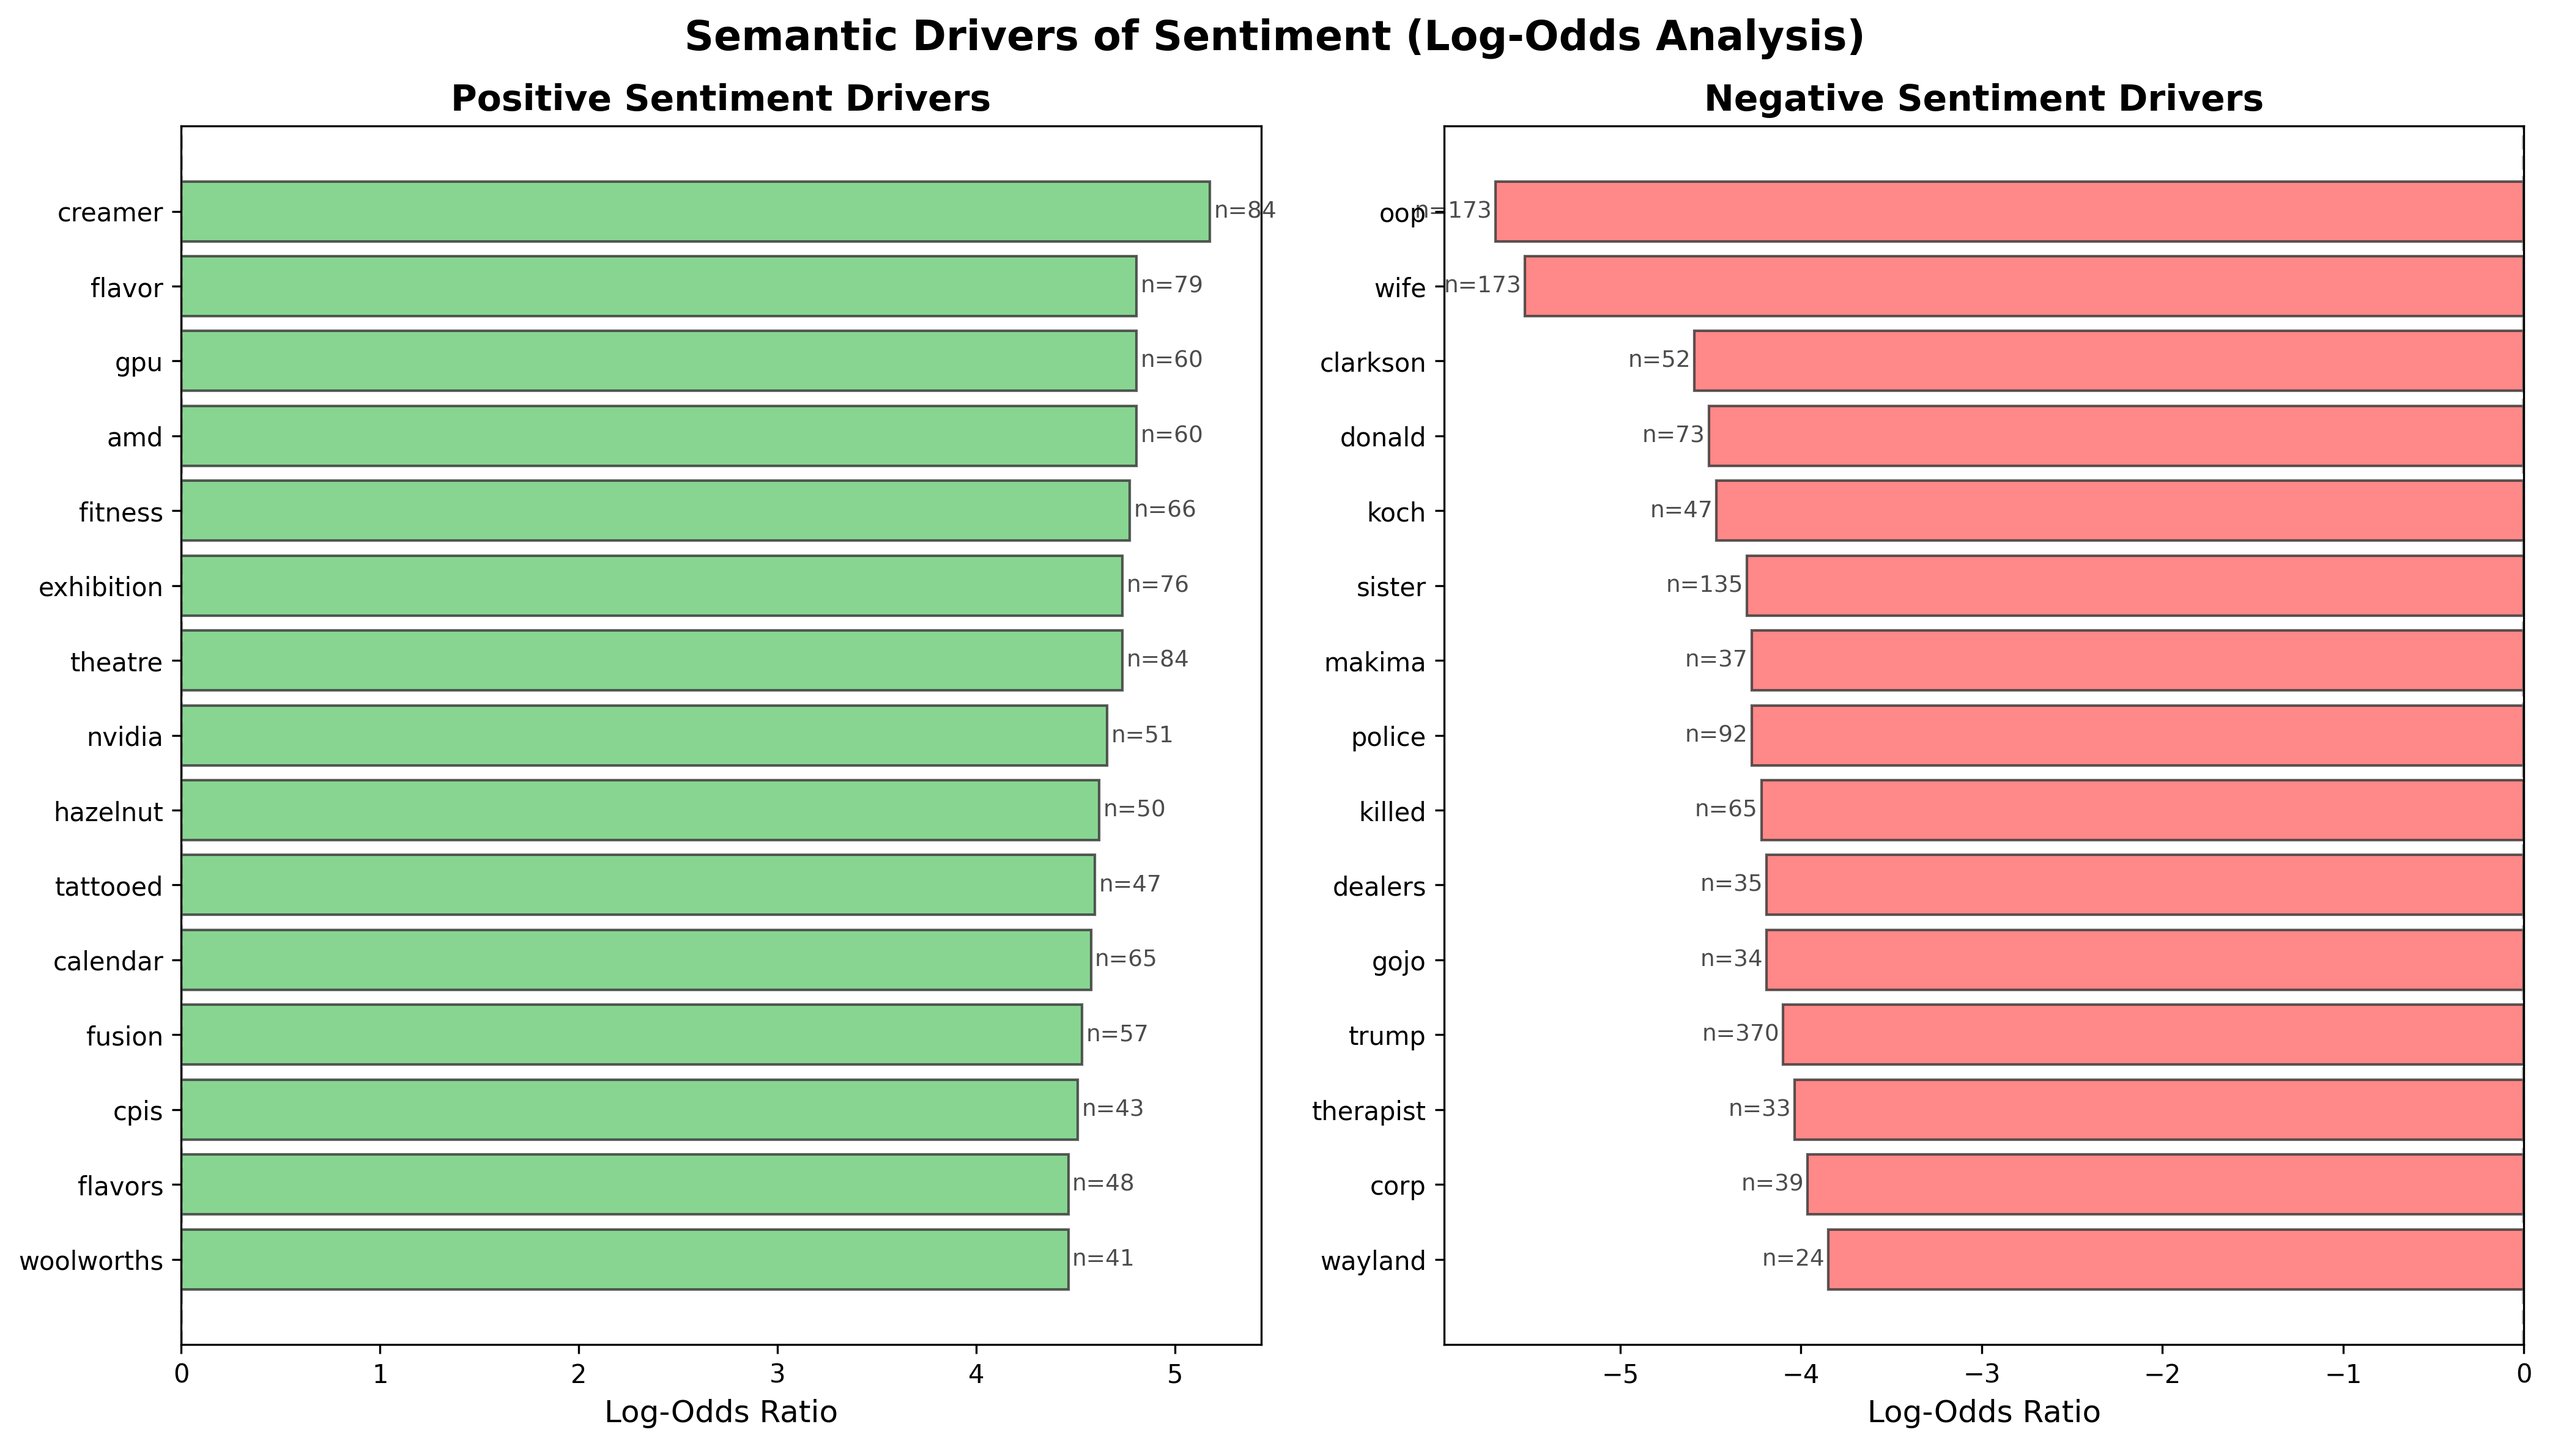
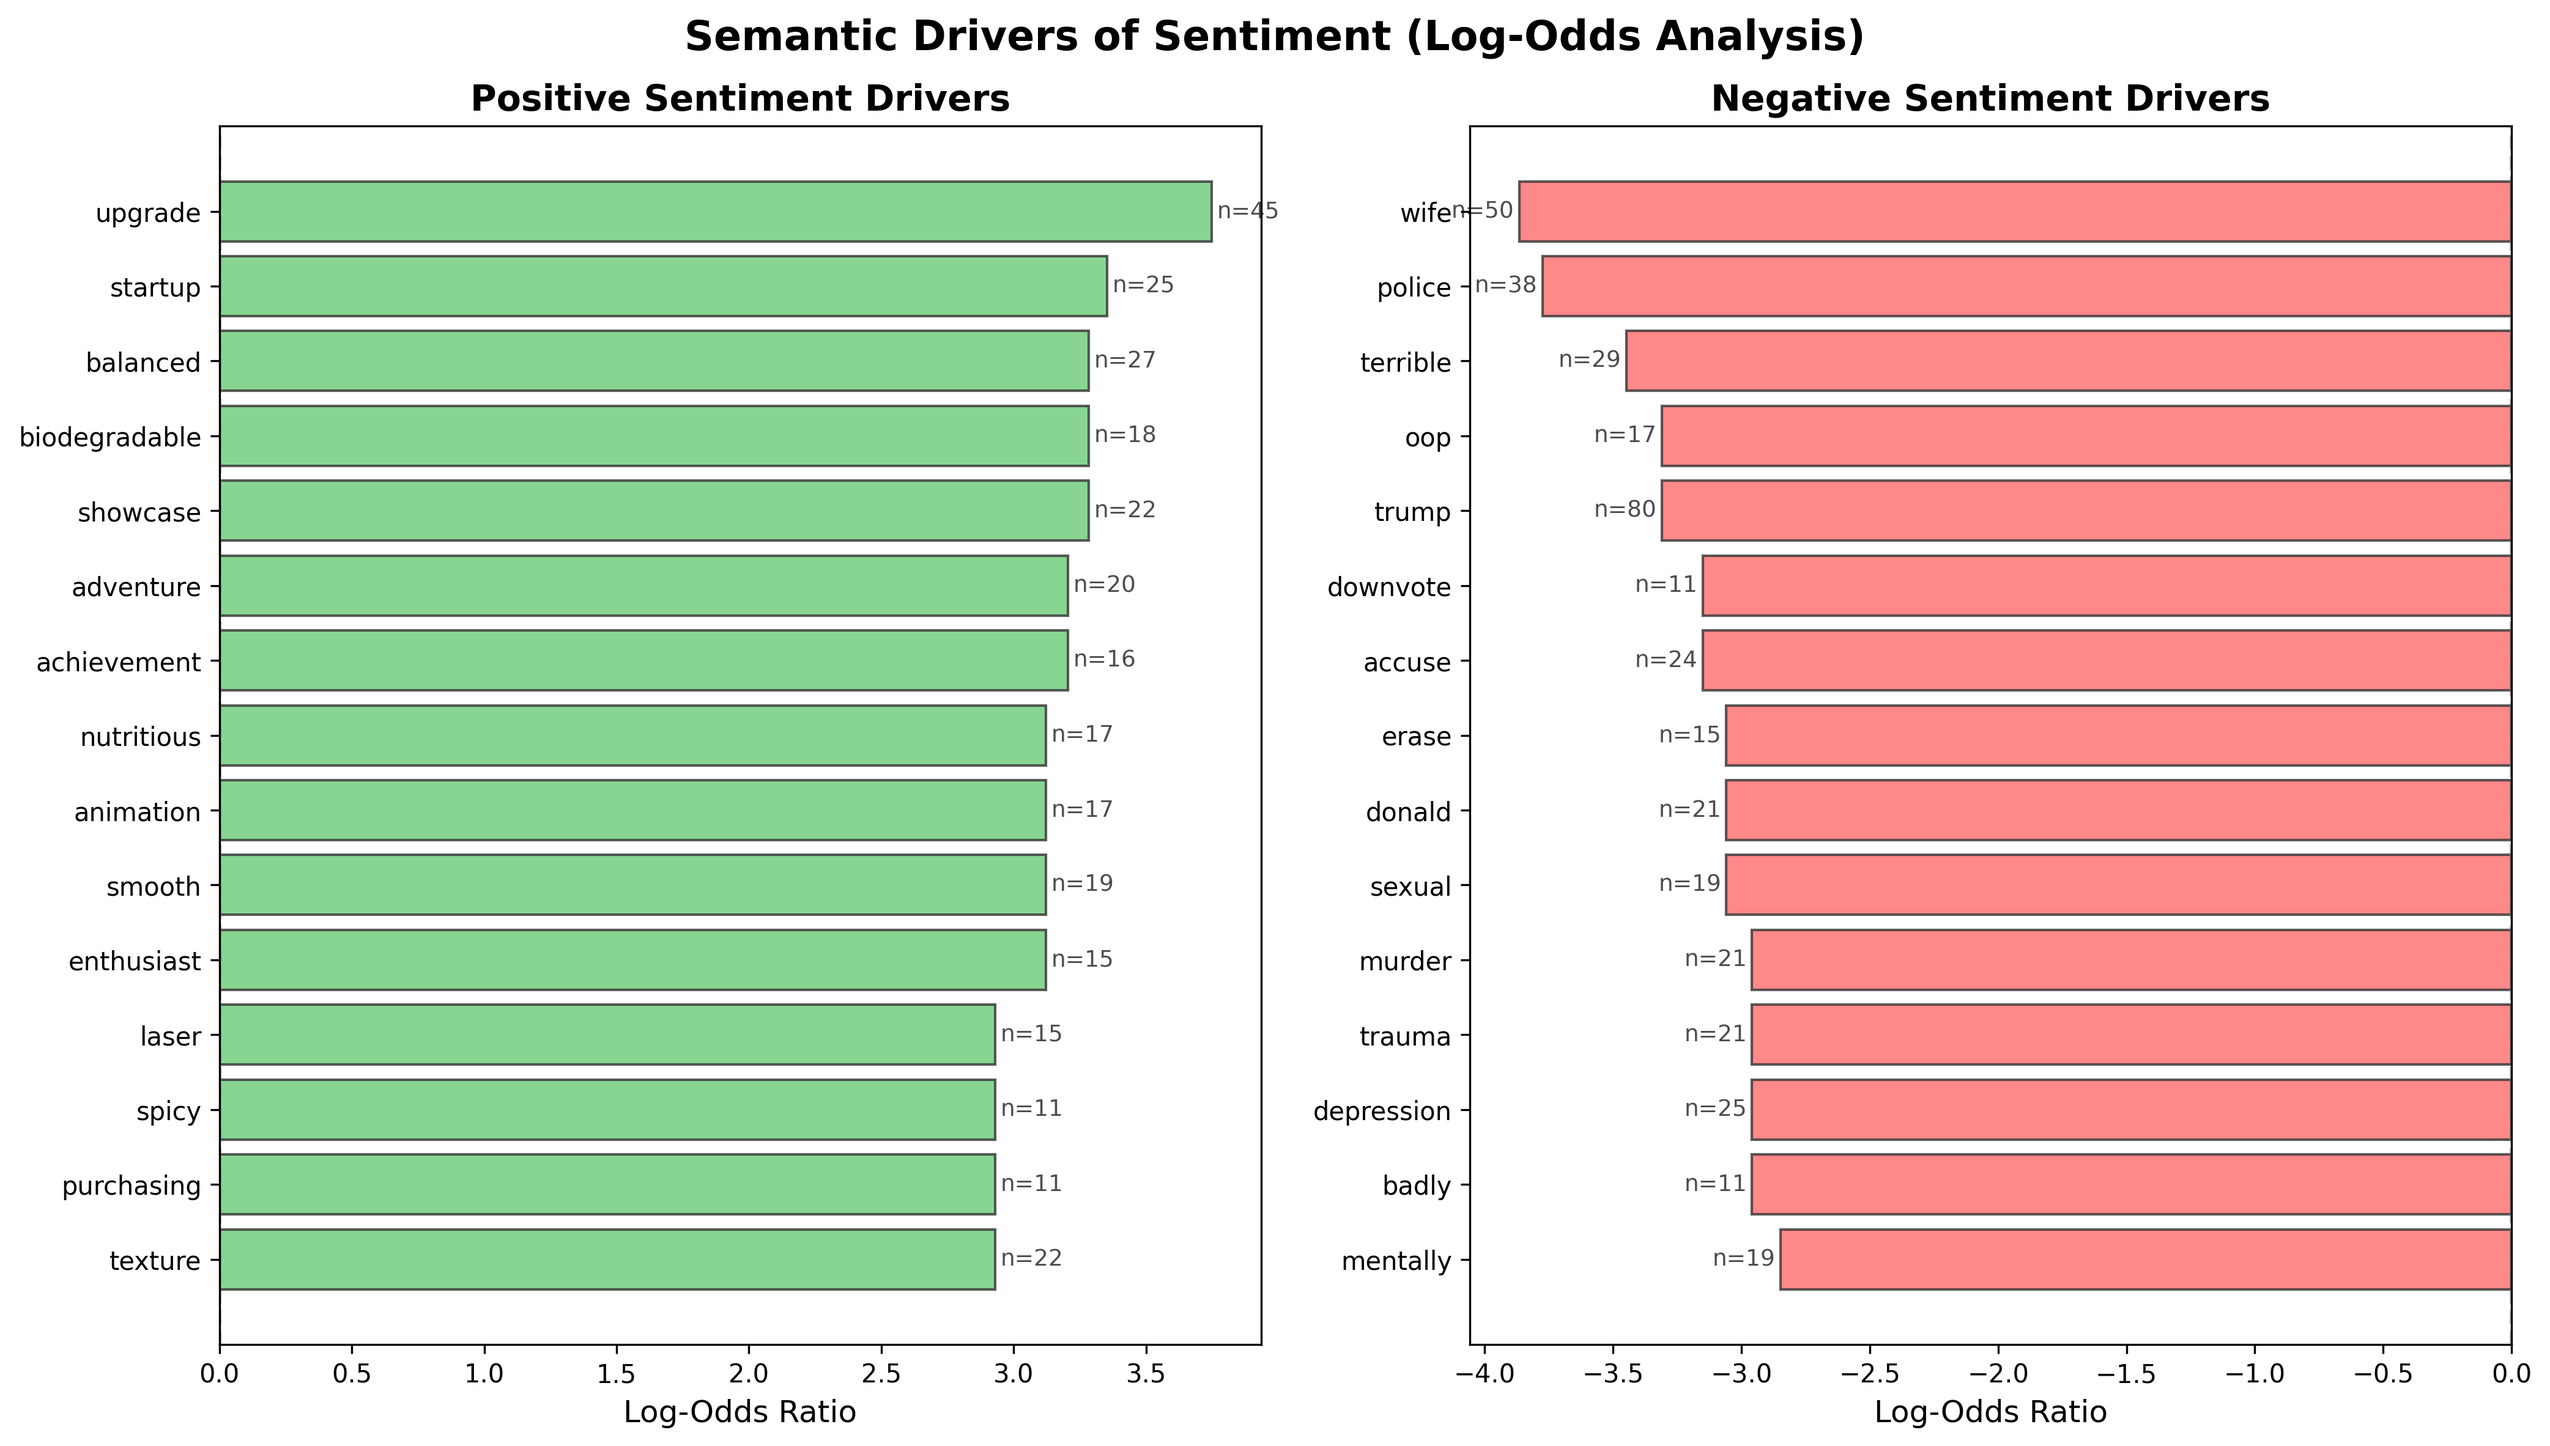
changes

diff --git a/analysis.py b/analysis.py
@@ -556,19 +556,36 @@ class OddsRatioAnalysis:
         self.df = df.copy()
         self.text_column = text_column
         self.sentiment_column = sentiment_column
+        self.stopwords = {
+            'the', 'and', 'for', 'that', 'with', 'this', 'from', 'have', 'were',
+            'their', 'they', 'them', 'about', 'would', 'could', 'should', 'there',
+            'which', 'when', 'where', 'what', 'your', 'just', 'into', 'over',
+            'than', 'also', 'http', 'https', 'www', 'com', 'amp', 'reddit',
+            'post', 'comment', 'people', 'thing', 'things', 'make', 'made',
+            'know', 'like', 'really', 'still', 'much', 'many', 'some', 'more',
+            'most', 'other', 'because', 'going', 'want', 'need', 'take', 'come',
+            'said', 'dont', 'doesnt', 'didnt', 'cant', 'wont', 'ive', 'youre',
+            'im', 'get', 'got', 'one', 'two', 'first', 'last', 'new', 'use',
+            'used', 'using', 'well', 'back', 'look', 'long', 'even', 'say'
+        }
+
+    def _tokenize_text(self, text: str) -> List[str]:
+        """Tokenize and filter words for semantic odds analysis."""
+        text = str(text).lower()
+        tokens = re.findall(r'\b[a-z]{3,}\b', text)
+        tokens = [t for t in tokens if t not in self.stopwords]
+        return tokens
     
     def compute_word_frequencies(self) -> Tuple[Counter, Counter, Counter]:
-        """Compute word frequencies by sentiment class."""
-        from collections import Counter
-        import re
+        """Compute per-document word frequencies by sentiment class."""
         
         positive_words = Counter()
         negative_words = Counter()
         all_words = Counter()
         
         for _, row in self.df.iterrows():
-            text = str(row[self.text_column]).lower()
-            words = re.findall(r'\b[a-z]{3,}\b', text)
+            words = self._tokenize_text(row[self.text_column])
+            words = list(set(words))
             sentiment = row[self.sentiment_column]
             
             all_words.update(words)
@@ -581,7 +598,8 @@ class OddsRatioAnalysis:
         return positive_words, negative_words, all_words
     
     def compute_log_odds_ratio(self, min_count: int = 10,
-                               prior_count: float = 0.5) -> pd.DataFrame:
+                               prior_count: float = 0.5,
+                               max_doc_frequency: float = 0.8) -> pd.DataFrame:
         """
         Compute log-odds ratio with informative Dirichlet prior.
         
@@ -595,6 +613,8 @@ class OddsRatioAnalysis:
             DataFrame with words ranked by log-odds
         """
         positive_words, negative_words, all_words = self.compute_word_frequencies()
+
+        total_docs = max(1, len(self.df))
         
         # Total counts
         total_positive = sum(positive_words.values())
@@ -604,6 +624,8 @@ class OddsRatioAnalysis:
         
         for word, total_count in all_words.items():
             if total_count < min_count:
+                continue
+            if (total_count / total_docs) > max_doc_frequency:
                 continue
             
             # Counts with prior smoothing
@@ -1320,8 +1342,13 @@ def run_full_analysis(df: pd.DataFrame,
     # ===== Step 4: Odds Ratio Analysis =====
     print(f"\n📐 Step 4: Odds Ratio / Log-Odds Analysis")
     print("-" * 40)
-    
-    odds_analyzer = OddsRatioAnalysis(df, text_column=text_column, sentiment_column='sentiment')
+
+    odds_text_column = text_column
+    if 'topic_text' in df.columns and df['topic_text'].astype(str).str.len().gt(0).any():
+        odds_text_column = 'topic_text'
+    print(f"   Using text column for log-odds: {odds_text_column}")
+
+    odds_analyzer = OddsRatioAnalysis(df, text_column=odds_text_column, sentiment_column='sentiment')
     
     # Sentiment probabilities
     sent_probs = odds_analyzer.compute_sentiment_probabilities()
@@ -1333,7 +1360,7 @@ def run_full_analysis(df: pd.DataFrame,
     print(f"      Net Sentiment: {sent_probs['net_sentiment']:+.3f}")
     
     # Log-odds analysis
-    log_odds_df = odds_analyzer.compute_log_odds_ratio(min_count=10)
+    log_odds_df = odds_analyzer.compute_log_odds_ratio(min_count=10, max_doc_frequency=0.8)
     if len(log_odds_df) > 0:
         drivers = odds_analyzer.get_top_drivers(log_odds_df, n=10)
         

diff --git a/model.py b/model.py
@@ -58,7 +58,7 @@ def step_1_scrape_reddit():
         target = 3000
         seen_ids = set()
         data = []
-        cutoff_date = datetime(2016, 1, 1)
+        cutoff_date = datetime(2018, 1, 1)
         
         print(f"Searching Reddit with multiple queries to reach {target} posts (2016 onwards)...")
         
